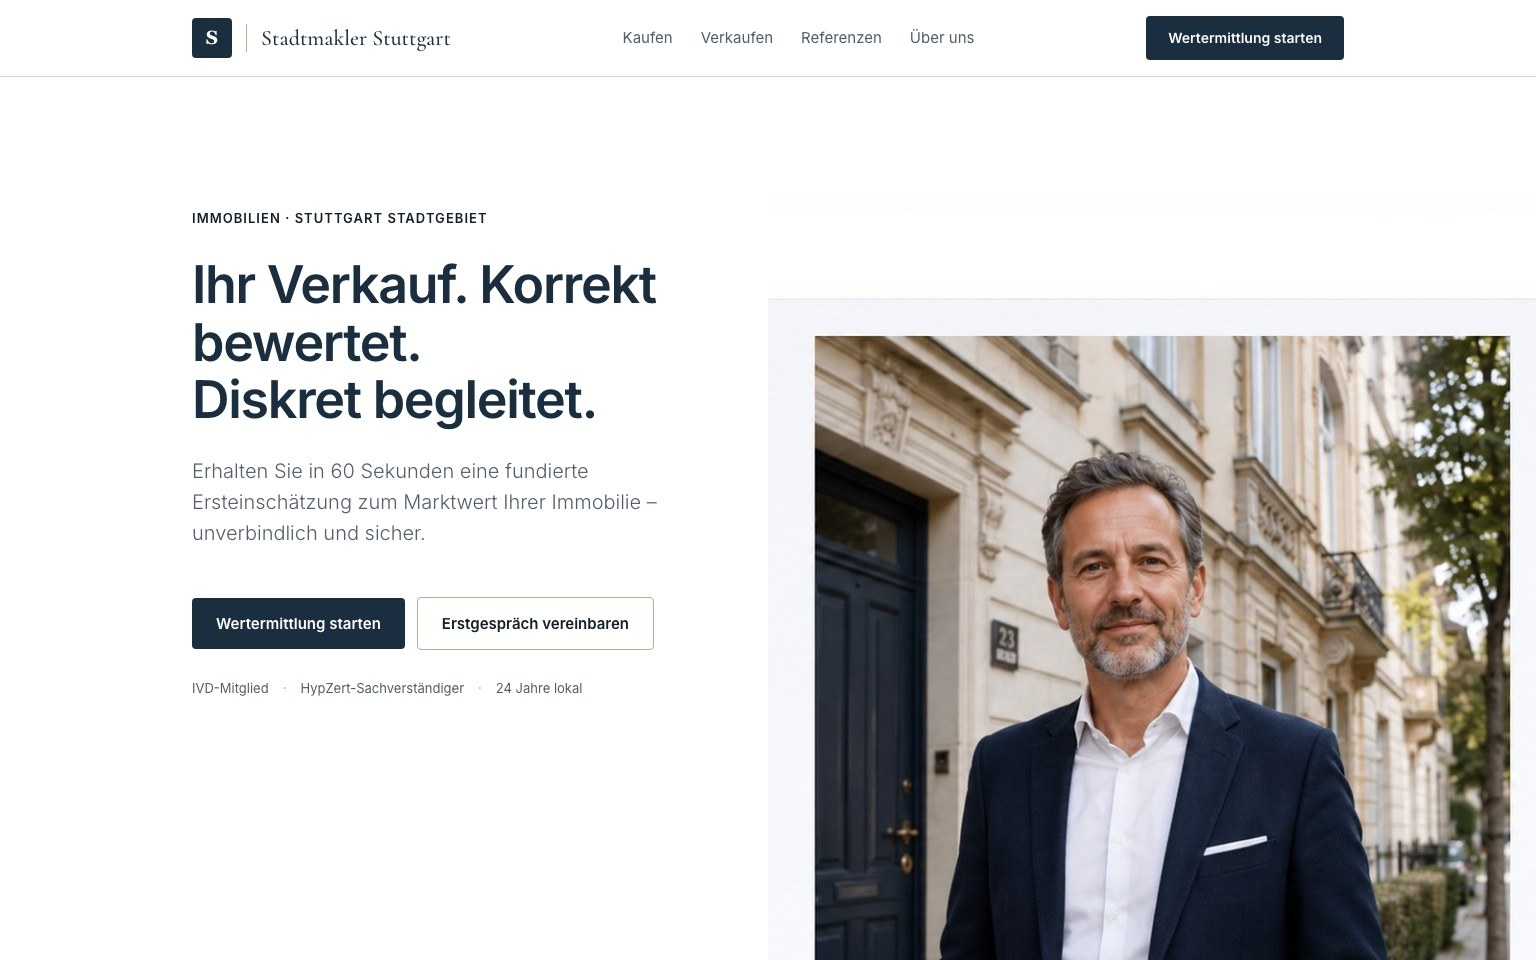
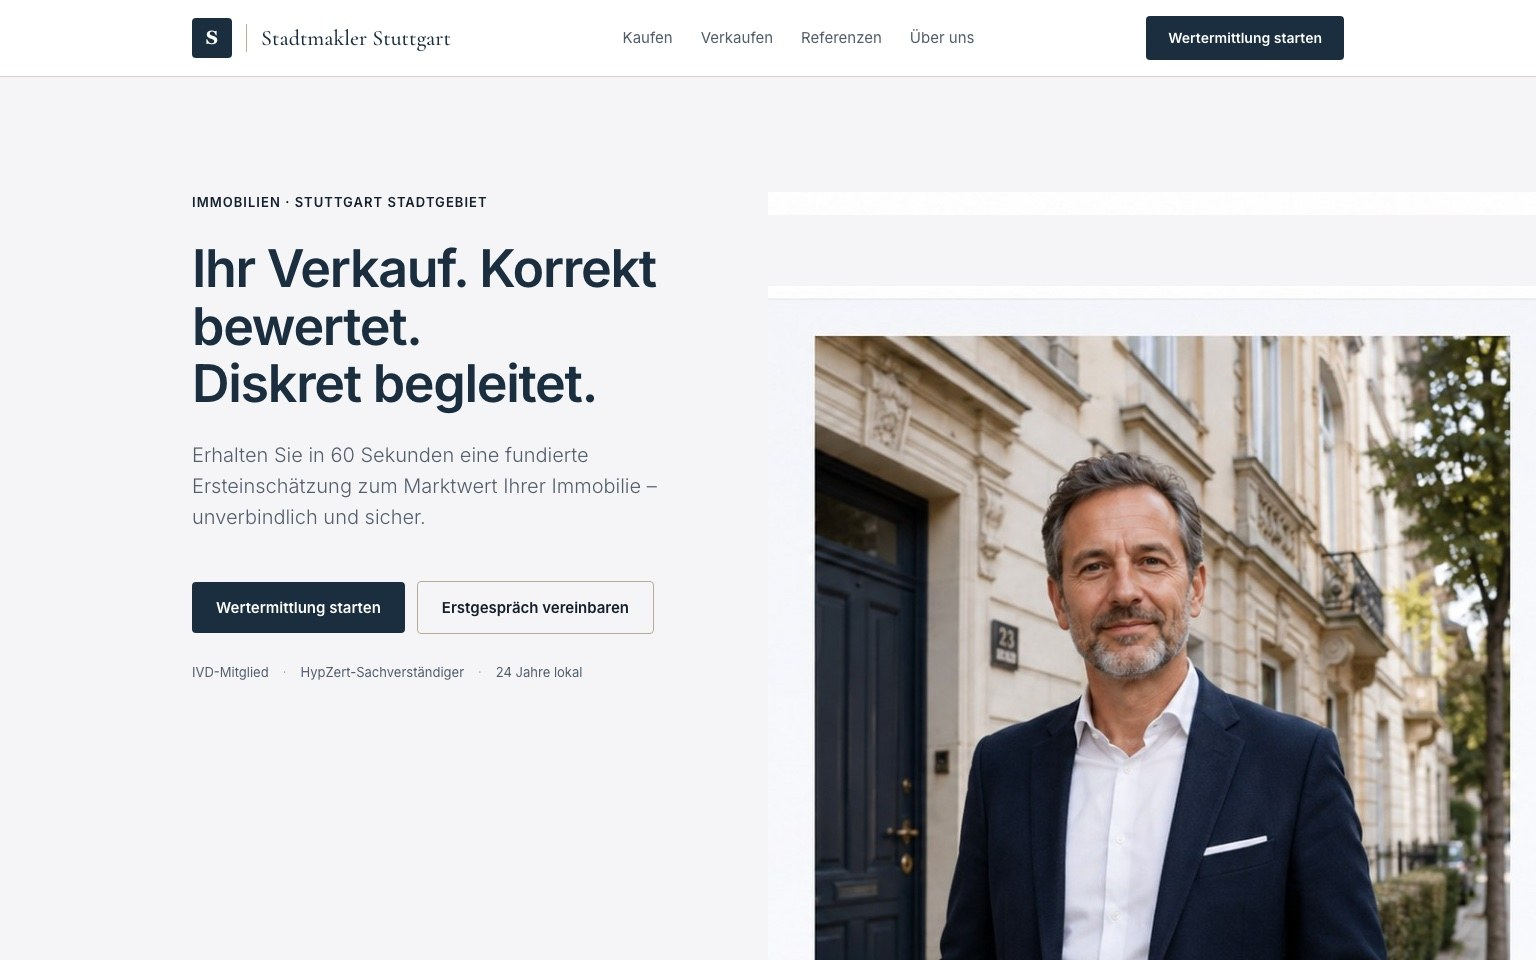
Sprint 33: Hero-BG hellgrau (#F5F5F7) + padding-top=0 (Abstand zur Nav)
User: "Den Abstand zum Header sehr verkürzen und den Hintergrund der linken Seite wie hinter dem Bild."

- .hero background von #fff auf #F5F5F7 (Apple-Style hellgrau) — linke Spalte hat jetzt den gleichen Hintergrund wie die rechte (hinter dem Foto)
- .hero-content padding-top von 16px auf 0 — Hero-Content direkt unter Nav-Bottom-Border
- .hero min-height von clamp(460,56vh,600) auf clamp(440,54vh,580) — etwas kompakter
- screenshot-mockups.sh PIL-paint fill-color von white auf (245,245,247) angepasst — kein weisser Streifen mehr in der Bug-Region

Changed region(s): [[0.125, 0.1875, 0.4375, 0.5625], [0.125, 0.5938, 0.375, 0.7188], [0.2812, 0.625, 0.4062, 0.6562]]

diff --git a/src/portfolio/immobilien-makler.html b/src/portfolio/immobilien-makler.html
@@ -160,8 +160,8 @@
         .mobile-toggle svg { width: 24px; height: 24px; }
         .mobile-menu { display: none; }
 
-        .hero { display: grid; grid-template-columns: 1fr 1fr; gap: 0; min-height: clamp(460px, 56vh, 600px); align-items: start; background: #fff; }
-        .hero-content { padding-top: 16px; padding-bottom: 32px; padding-left: max(24px, calc((100vw - var(--max)) / 2 + 24px)); padding-right: 56px; }
+        .hero { display: grid; grid-template-columns: 1fr 1fr; gap: 0; min-height: clamp(440px, 54vh, 580px); align-items: start; background: #F5F5F7; }
+        .hero-content { padding-top: 0; padding-bottom: 32px; padding-left: max(24px, calc((100vw - var(--max)) / 2 + 24px)); padding-right: 56px; }
         .hero-portrait { align-self: stretch; height: 100%; overflow: hidden; }
         .hero-portrait img { width: 100%; height: 100%; object-fit: cover; display: block; }
         @media (max-width: 920px) {
